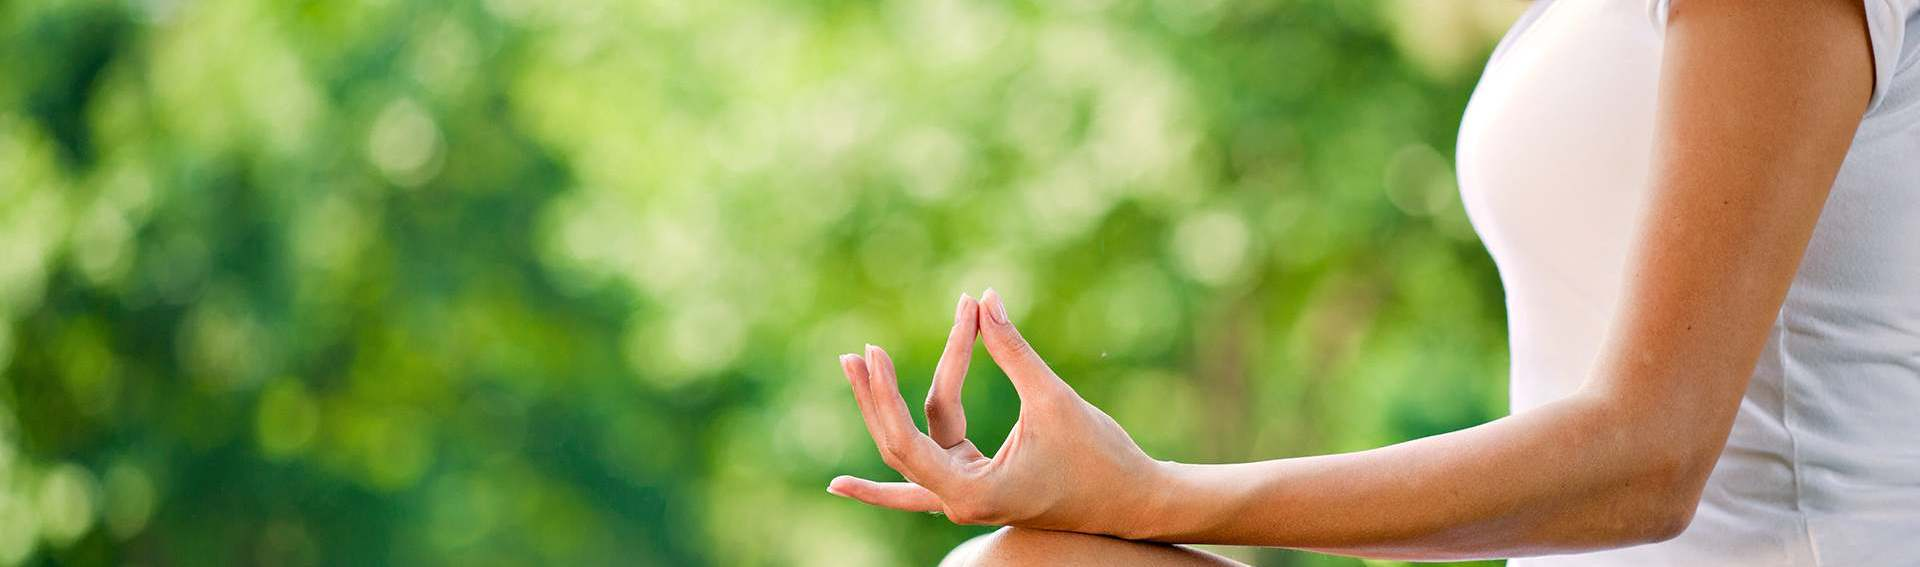
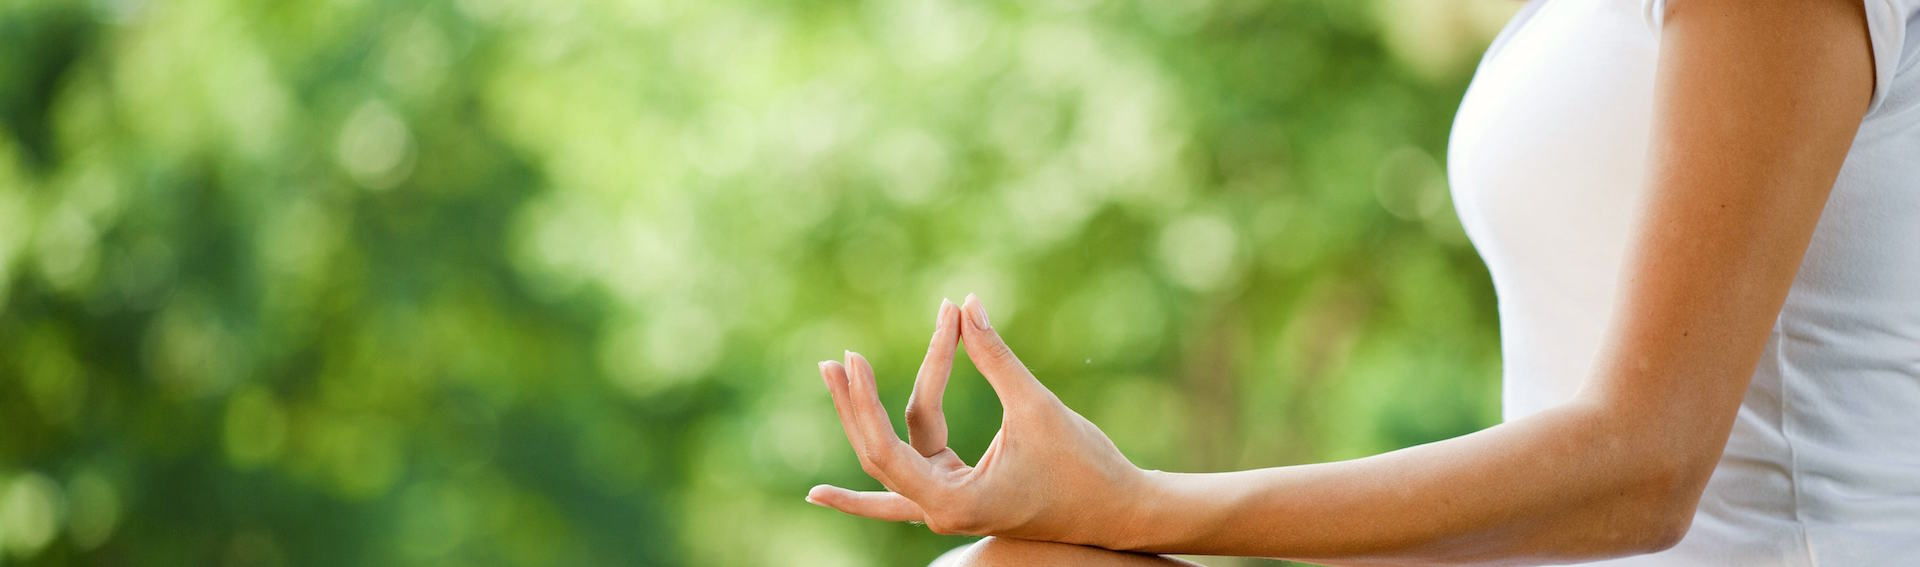
minor styling changes

diff --git a/app/assets/stylesheets/custom.css.scss b/app/assets/stylesheets/custom.css.scss
@@ -14,6 +14,14 @@ header {
 	margin-top: 11px;
 }
 
+.banner-btn {
+	border: 2px solid #357ebd;
+
+	&:hover {
+		border-color: #357ebd;
+	}
+}
+
 hr {
 	border: 1px solid #eee;
 	height: 0;
@@ -89,17 +97,28 @@ hr {
 	margin-bottom: 10px;
 }
 
+.row.social {
+	height: auto;
+	padding-top: 20px;
+	padding-bottom: 20px;
+}
+
+div.addthis_native_toolbox {
+	width: 390px;
+	margin: 0 auto;
+}
+
 h1.banner-heading {
 	font-size: 30px;
 }
 
 .banner-text {
 	padding-top: 60px;
-	padding-left: 25px;
+	
 }
 
 .jumbotron.frontpage {
-	background: url("../images/lotus.jpg") no-repeat center top;
+	background: url("../images/test.jpg") no-repeat center top;
 	height: 567px;
 	margin-bottom: 0;
 }
